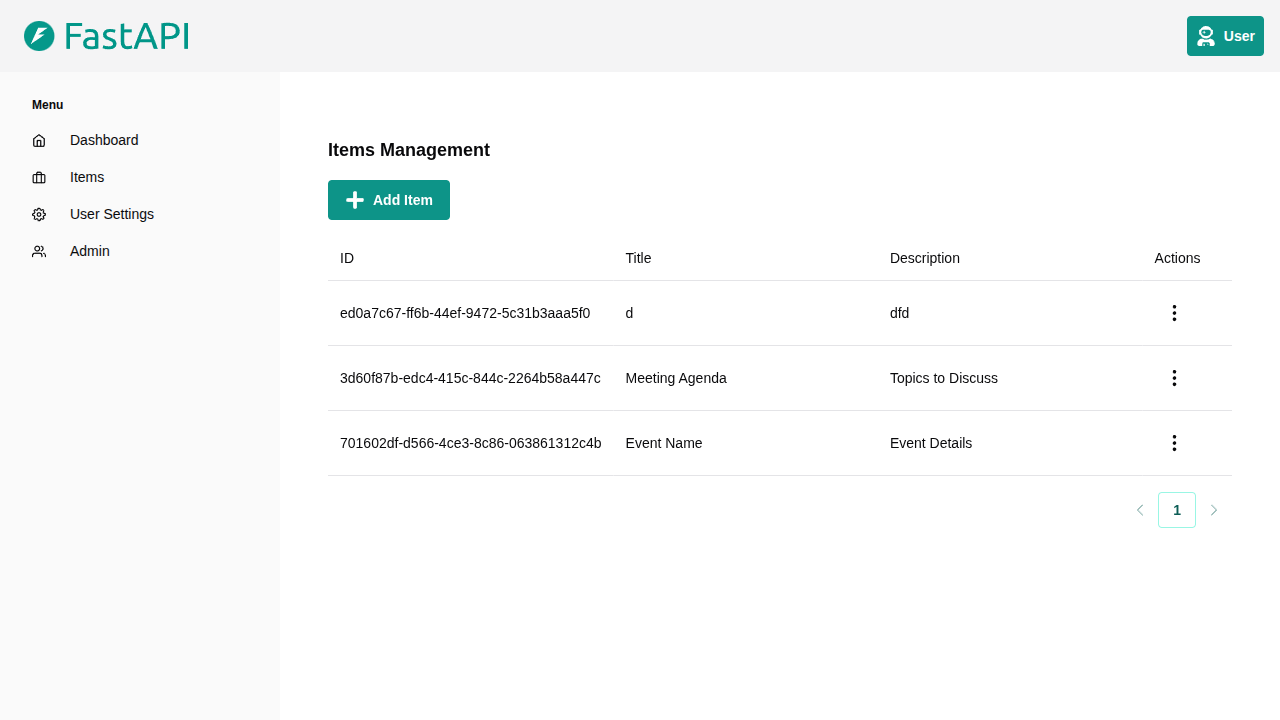
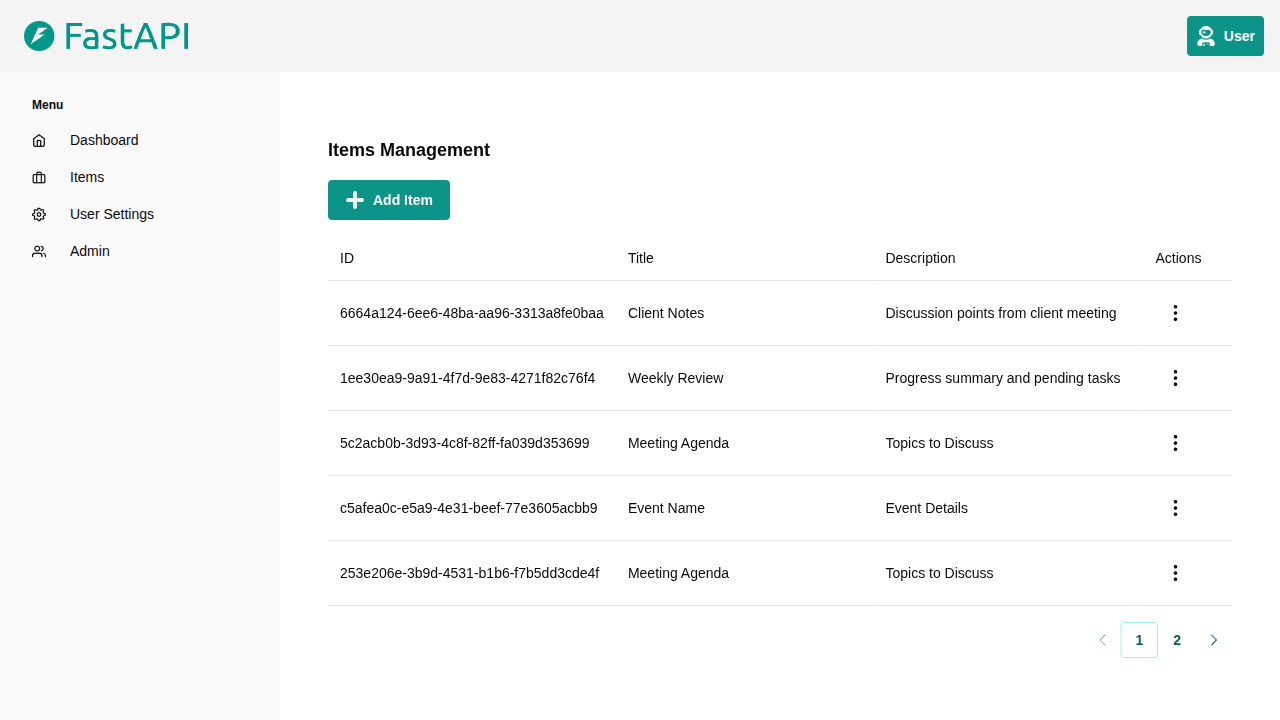
more tests + mino r change

diff --git a/resources/test_cases/6.py b/resources/test_cases/6.py
@@ -5,16 +5,16 @@ with sync_playwright() as p:
     page = browser.new_page()
 
     page.goto('localhost:5173')
-    page.wait_for_timeout(5000)
+    page.wait_for_timeout(2000.0)
     page.locator("//input[@id='username']").fill('mehdi.mirzapour@gmail.com')
     page.locator("//input[@name='password']").fill('pass1234')
-    page.locator("//button[contains(text(), 'Log In')]").click()
+    page.locator("//button[@type='submit']").click()
     page.wait_for_timeout(5000)
     page.goto('localhost:5173/items')
-    page.locator("//button[@value='add-item']").click()
+    page.locator("//button[contains(text(), 'Add Item')]").click()
     page.wait_for_timeout(5000)
-    page.locator("//input[@name='title']").fill('Weekly Review')
-    page.locator("//input[@name='description']").fill('Progress summary and pending tasks')
+    page.locator("//input[@id='title']").fill('Weekly Review')
+    page.locator("//input[@id='description']").fill('Progress summary and pending tasks')
     page.locator("//button[contains(text(), 'Save')]").click()
     page.wait_for_timeout(5000)
     browser.close()

diff --git a/resources/test_cases/1.py b/resources/test_cases/1.py
@@ -12,13 +12,13 @@ with sync_playwright() as p:
     page.goto('localhost:5173/items')
     page.locator("//button[@value='add-item']").click()
     page.wait_for_timeout(5000)
-    page.locator("//input[@id='title']").fill('Meeting Agenda')
-    page.locator("//input[@id='description']").fill('Topics to Discuss')
+    page.locator("//input[@name='title']").fill('Meeting Agenda')
+    page.locator("//input[@name='description']").fill('Topics to Discuss')
     page.locator("//button[contains(text(), 'Save')]").click()
     page.wait_for_timeout(5000)
-    page.locator("//button[contains(text(), 'Add Item')]").click()
+    page.locator("//button[@value='add-item']").click()
     page.wait_for_timeout(5000)
-    page.locator("//input[@id='title']").fill('Event Name')
+    page.locator("//input[@name='title']").fill('Event Name')
     page.locator("//input[@id='description']").fill('Event Details')
     page.locator("//button[@type='submit']").click()
     page.wait_for_timeout(5000)

diff --git a/src/agentic_app.py b/src/agentic_app.py
@@ -133,14 +133,13 @@ with sync_playwright() as p:
             if bounding_box:
                 x = bounding_box['x'] + bounding_box['width'] / 2
                 y = bounding_box['y'] + bounding_box['height'] / 2
-                print(f"Moving mouse to: ({x}, {y})")
+                print(" " * 30 + f"Moving mouse to: ({x}, {y})")
                 page.mouse.move(x, y)  # Explicit mouse movement for visibility
                 # Perform click to select the element
                 element.click()
                 # Capture screenshot to verify
                 png_path = args.instruction_file.rsplit('.', 1)[0] + ".png"
                 page.screenshot(path=png_path)
-                print(f"Screenshot saved at: {os.path.abspath(png_path)}")
                 # Add delay to observe effect
                 page.wait_for_timeout(3000)
             

diff --git a/resources/test_cases/7.py b/resources/test_cases/7.py
@@ -8,13 +8,13 @@ with sync_playwright() as p:
     page.wait_for_timeout(5000)
     page.locator("//input[@id='username']").fill('mehdi.mirzapour@gmail.com')
     page.locator("//input[@name='password']").fill('pass1234')
-    page.locator("//button[@type='submit']").click()
+    page.locator("//button[contains(text(), 'Log In')]").click()
     page.wait_for_timeout(5000)
     page.goto('localhost:5173/items')
     page.locator("//button[@value='add-item']").click()
     page.wait_for_timeout(5000)
     page.locator("//input[@id='title']").fill('Client Notes')
     page.locator("//input[@id='description']").fill('Discussion points from client meeting')
-    page.locator("//button[contains(text(), 'Save')]").click()
+    page.locator("//button[@type='submit']").click()
     page.wait_for_timeout(5000)
     browser.close()
